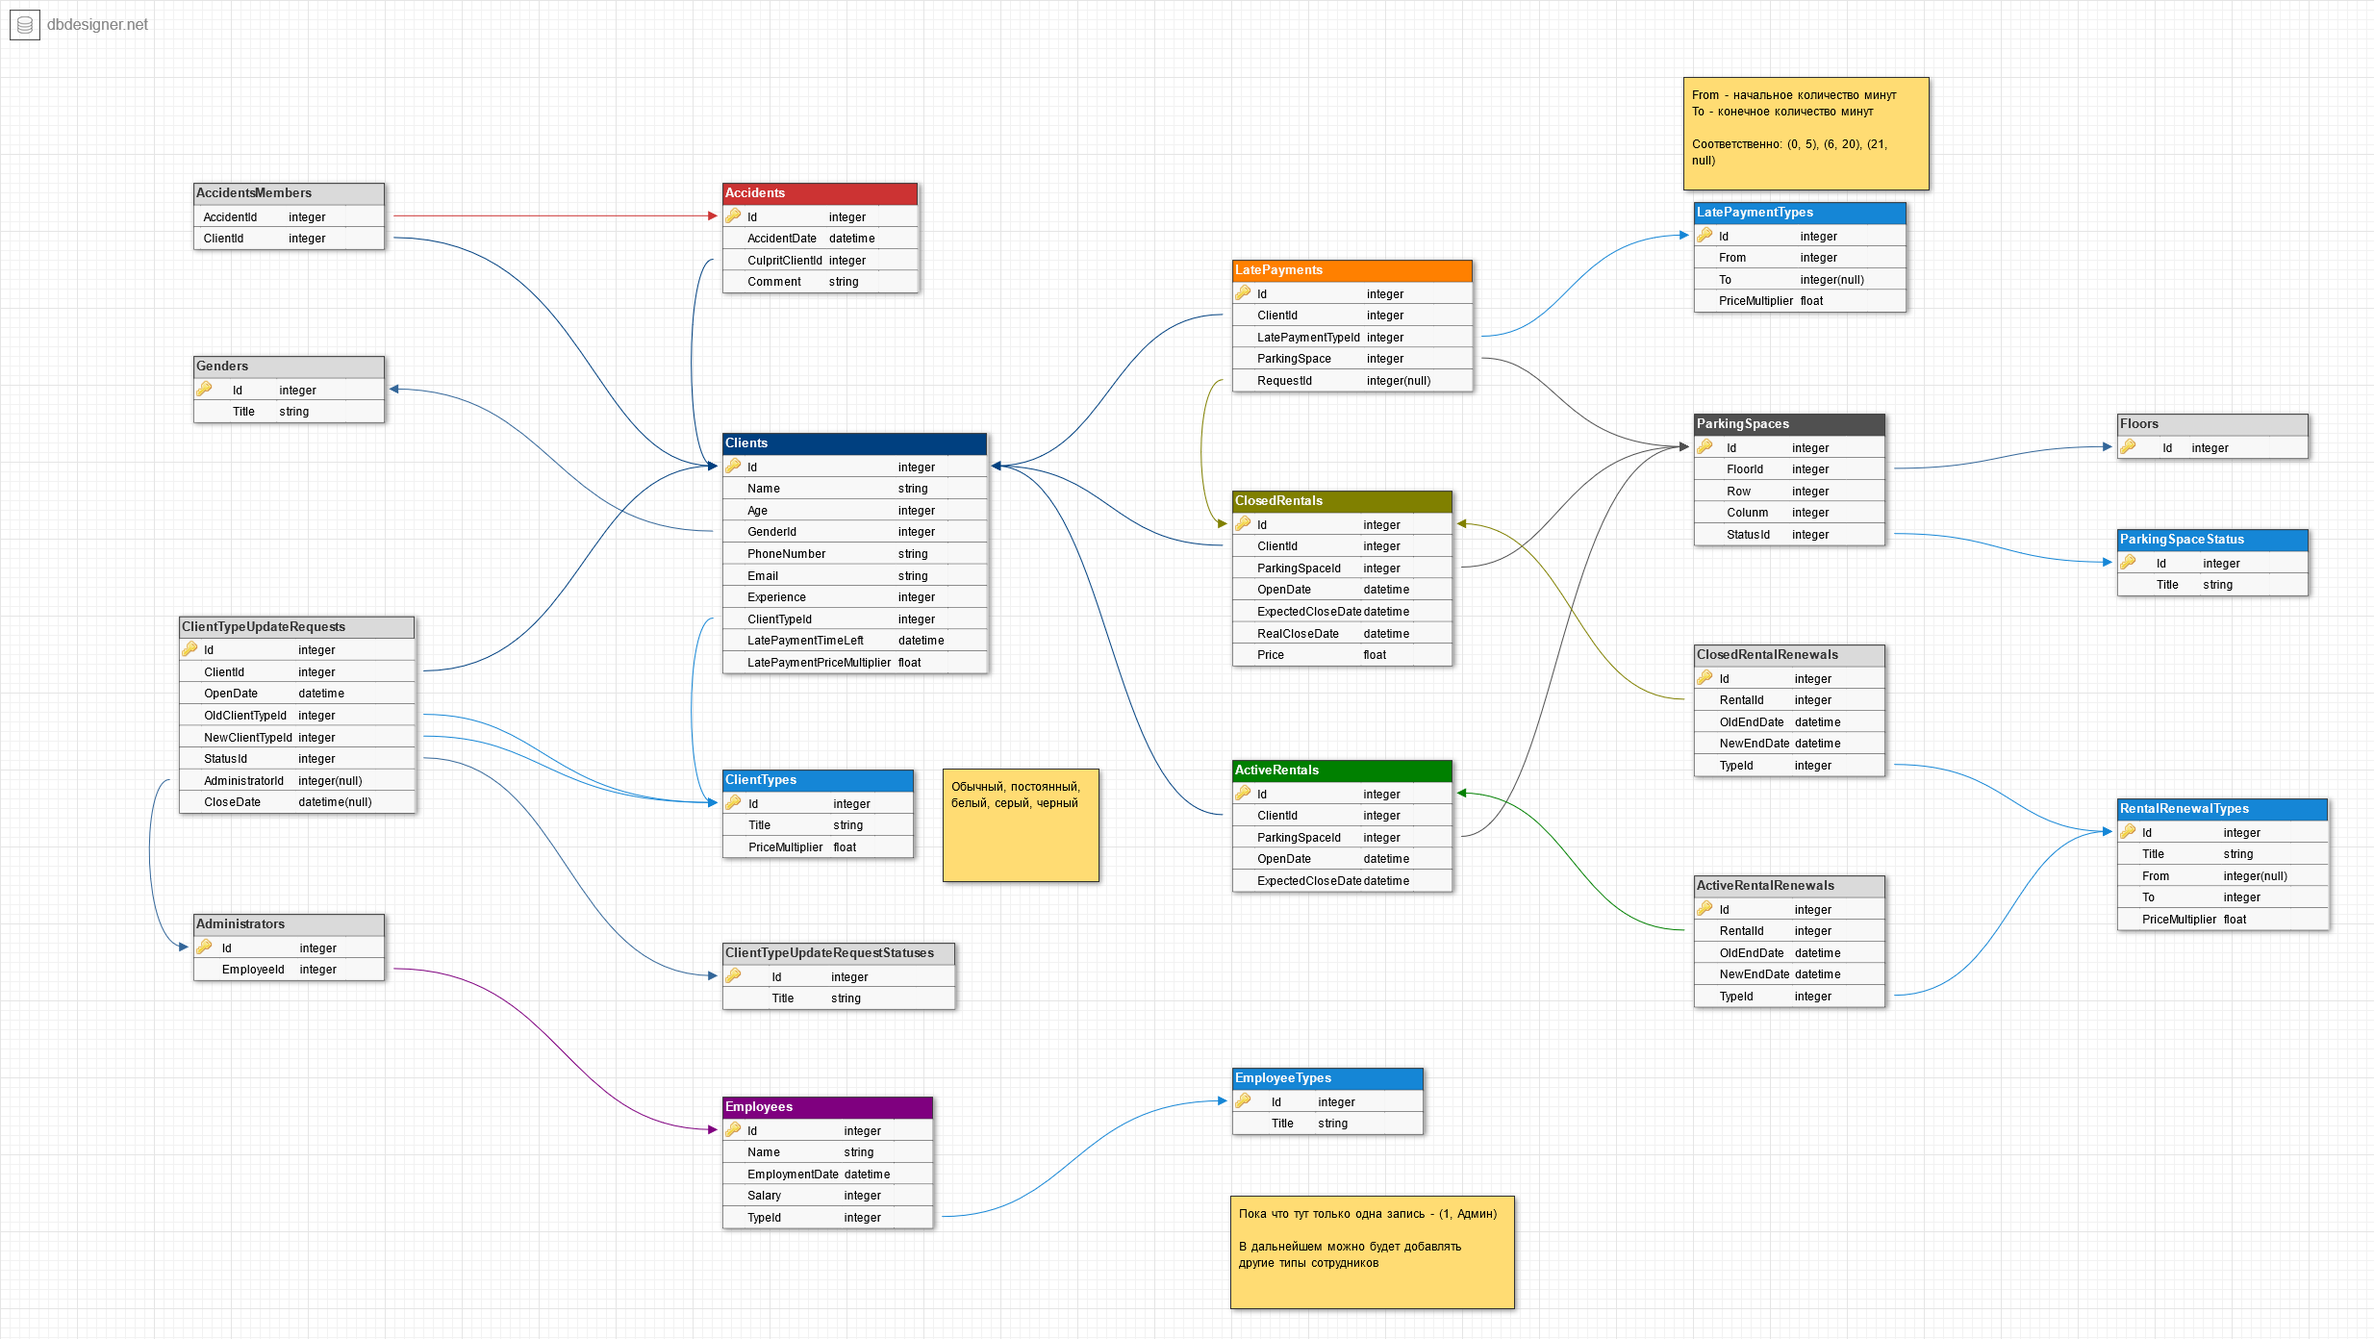
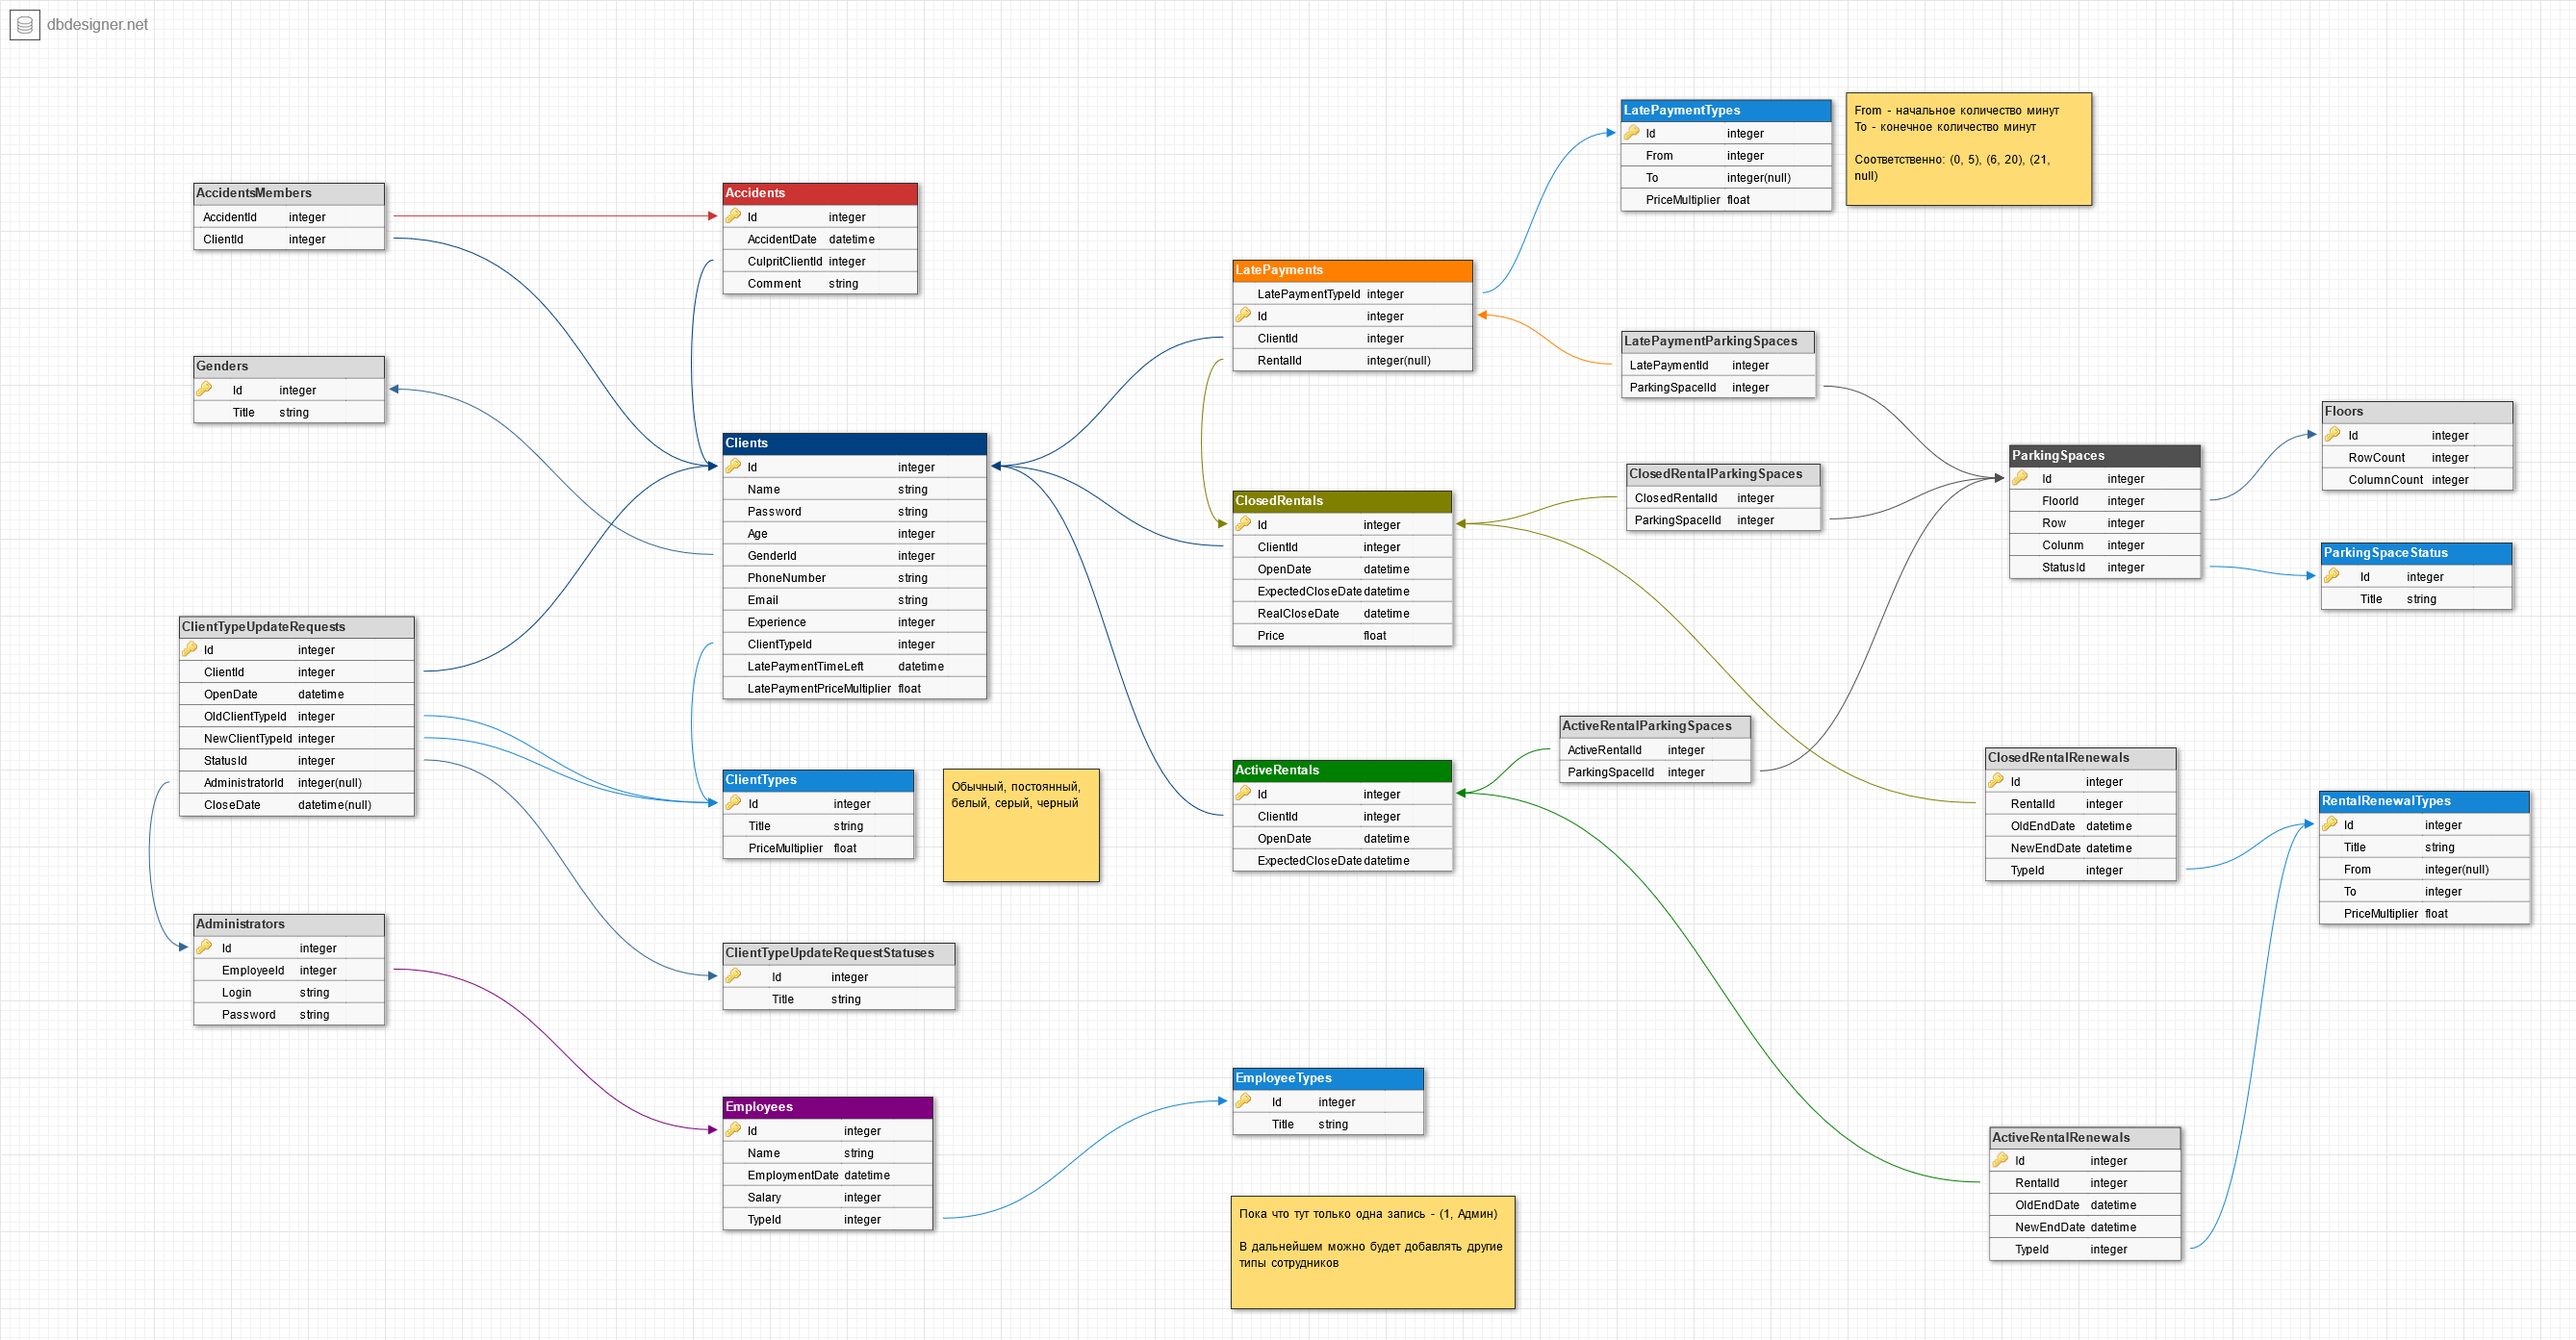
Update db_scheme.png; Add RentalParkingSpaces;  Add Client & Admin login, password

diff --git a/TRPO.Parking/TRPO.Parking.DataBase/Entities/Client.cs b/TRPO.Parking/TRPO.Parking.DataBase/Entities/Client.cs
@@ -5,11 +5,13 @@ namespace TRPO.Parking.DataBase.Entities
     public class Client
     {
         public int Id { get; set; }
+        public string Password { get; set; }
+
         public string Name { get; set; }
         public int Age { get; set; }
         
-        //public int GenderId { get; set; }
         public int GenderEntityId { get; set; }
+        public GenderEntity GenderEntity { get; set; }
         
         public string PhoneNumber { get; set; }
         public string Email { get; set; }

diff --git a/TRPO.Parking/TRPO.Parking.DataBase/Entities/ActiveRentalParkingSpaces.cs b/TRPO.Parking/TRPO.Parking.DataBase/Entities/ActiveRentalParkingSpaces.cs
@@ -1,0 +1,11 @@
+namespace TRPO.Parking.DataBase.Entities
+{
+    public class ActiveRentalParkingSpaces
+    {
+        public int ActiveRentalId { get; set; }
+        public ActiveRental ActiveRental { get; set; }
+
+        public int ParkingSpaceId { get; set; }
+        public ParkingSpace ParkingSpace { get; set; }
+    }
+}

diff --git a/TRPO.Parking/TRPO.Parking.DataBase/Entities/ClosedRentalParkingSpaces.cs b/TRPO.Parking/TRPO.Parking.DataBase/Entities/ClosedRentalParkingSpaces.cs
@@ -1,0 +1,11 @@
+namespace TRPO.Parking.DataBase.Entities
+{
+    public class ClosedRentalParkingSpaces
+    {
+        public int ClosedRentalId { get; set; }
+        public ClosedRental ClosedRental { get; set; }
+
+        public int ParkingSpaceId { get; set; }
+        public ParkingSpace ParkingSpace { get; set; }
+    }
+}

diff --git a/TRPO.Parking/TRPO.Parking.DataBase/Entities/LatePaymentParkingSpaces.cs b/TRPO.Parking/TRPO.Parking.DataBase/Entities/LatePaymentParkingSpaces.cs
@@ -1,0 +1,11 @@
+namespace TRPO.Parking.DataBase.Entities
+{
+    public class LatePaymentParkingSpaces
+    {
+        public int LatePaymentId { get; set; }
+        public LatePayment LatePayment { get; set; }
+
+        public int ParkingSpaceId { get; set; }
+        public ParkingSpace ParkingSpace { get; set; }
+    }
+}

diff --git a/TRPO.Parking/TRPO.Parking.DataBase/Entities/Administrator.cs b/TRPO.Parking/TRPO.Parking.DataBase/Entities/Administrator.cs
@@ -3,6 +3,8 @@
     public class Administrator
     {
         public int Id { get; set; }
+        public string Login { get; set; }
+        public string Password { get; set; }
 
         public int EmployeeId { get; set; }
         public Employee Employee { get; set; }

diff --git a/TRPO.Parking/TRPO.Parking.DataBase/ParkingDbContext.cs b/TRPO.Parking/TRPO.Parking.DataBase/ParkingDbContext.cs
@@ -12,6 +12,5 @@ namespace TRPO.Parking.DataBase
             base.OnConfiguring(optionsBuilder);
             optionsBuilder.UseSqlite("Filename=Parking.db");
         }
-
     }
 }
